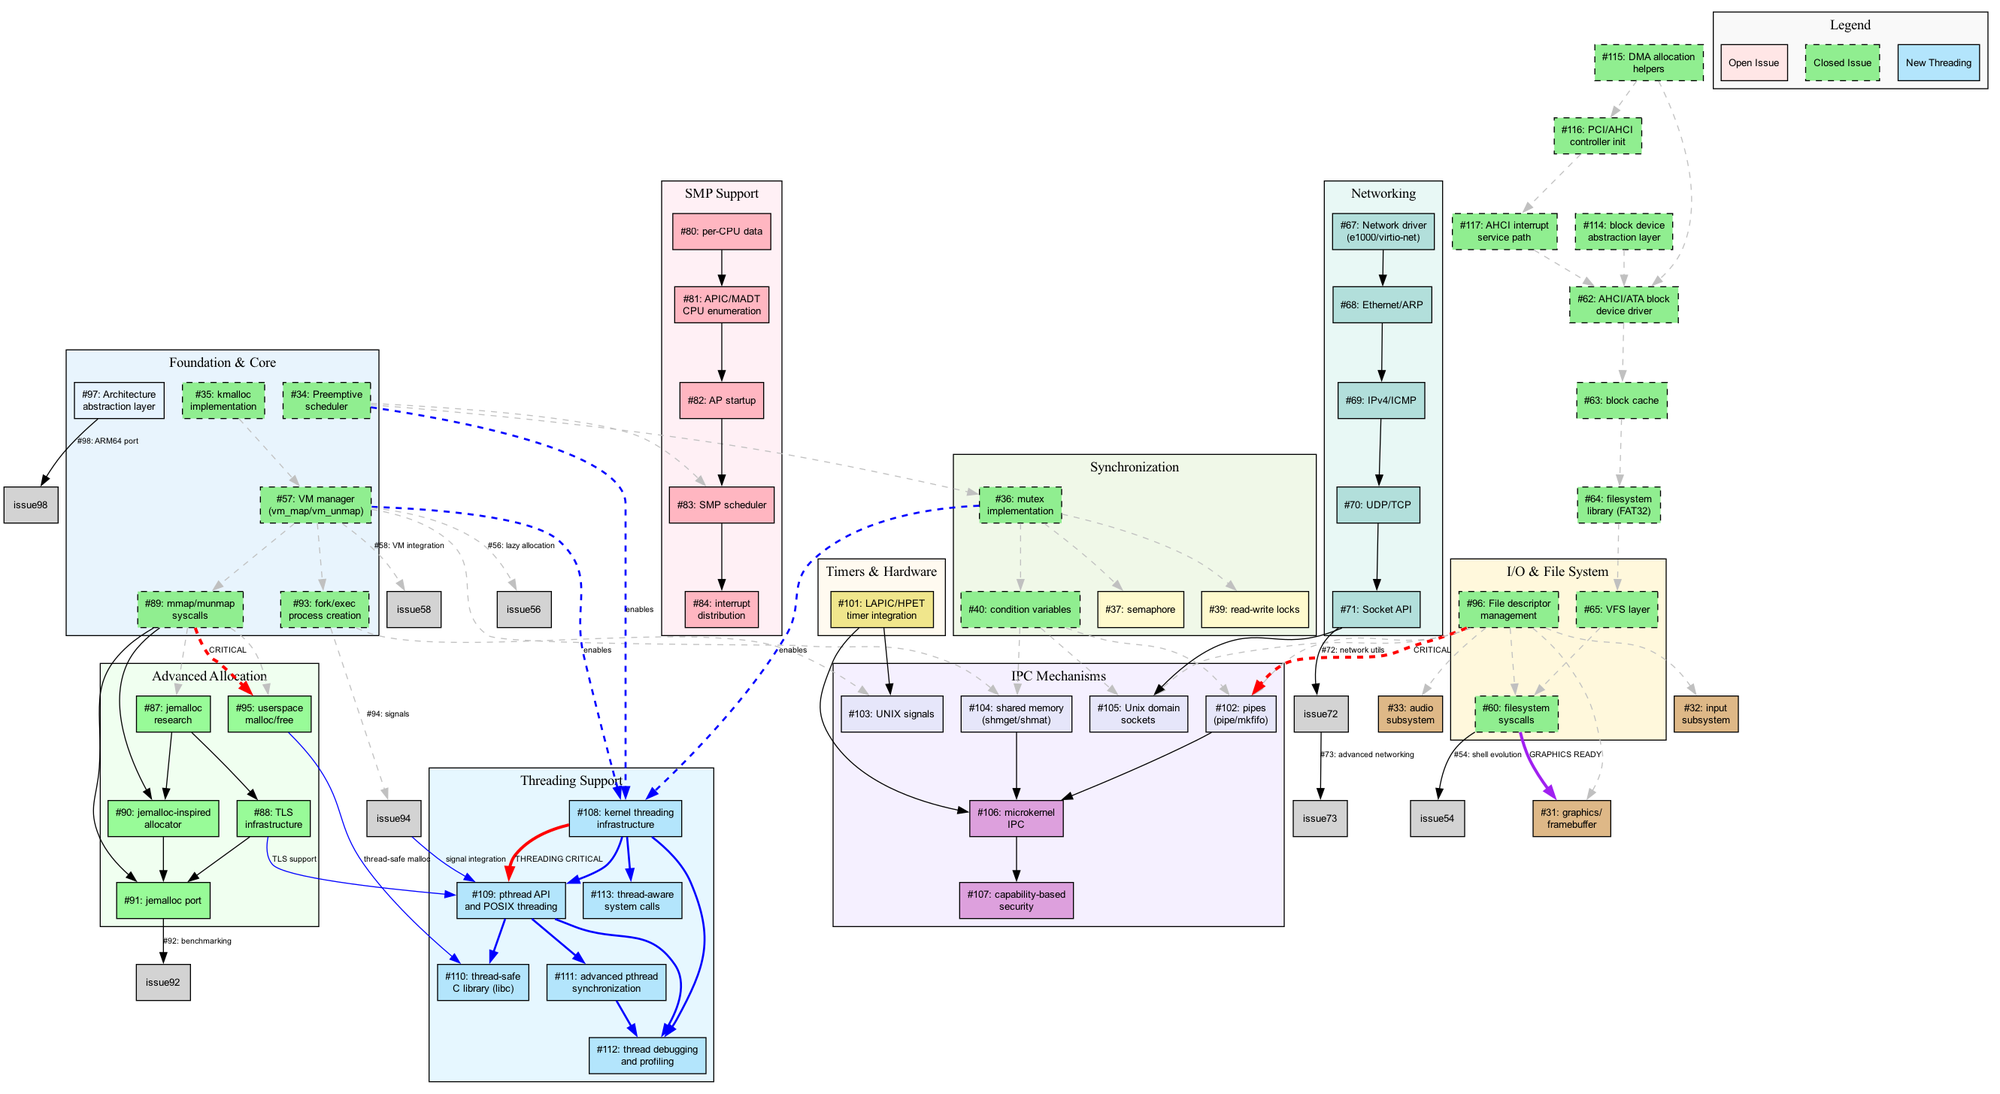
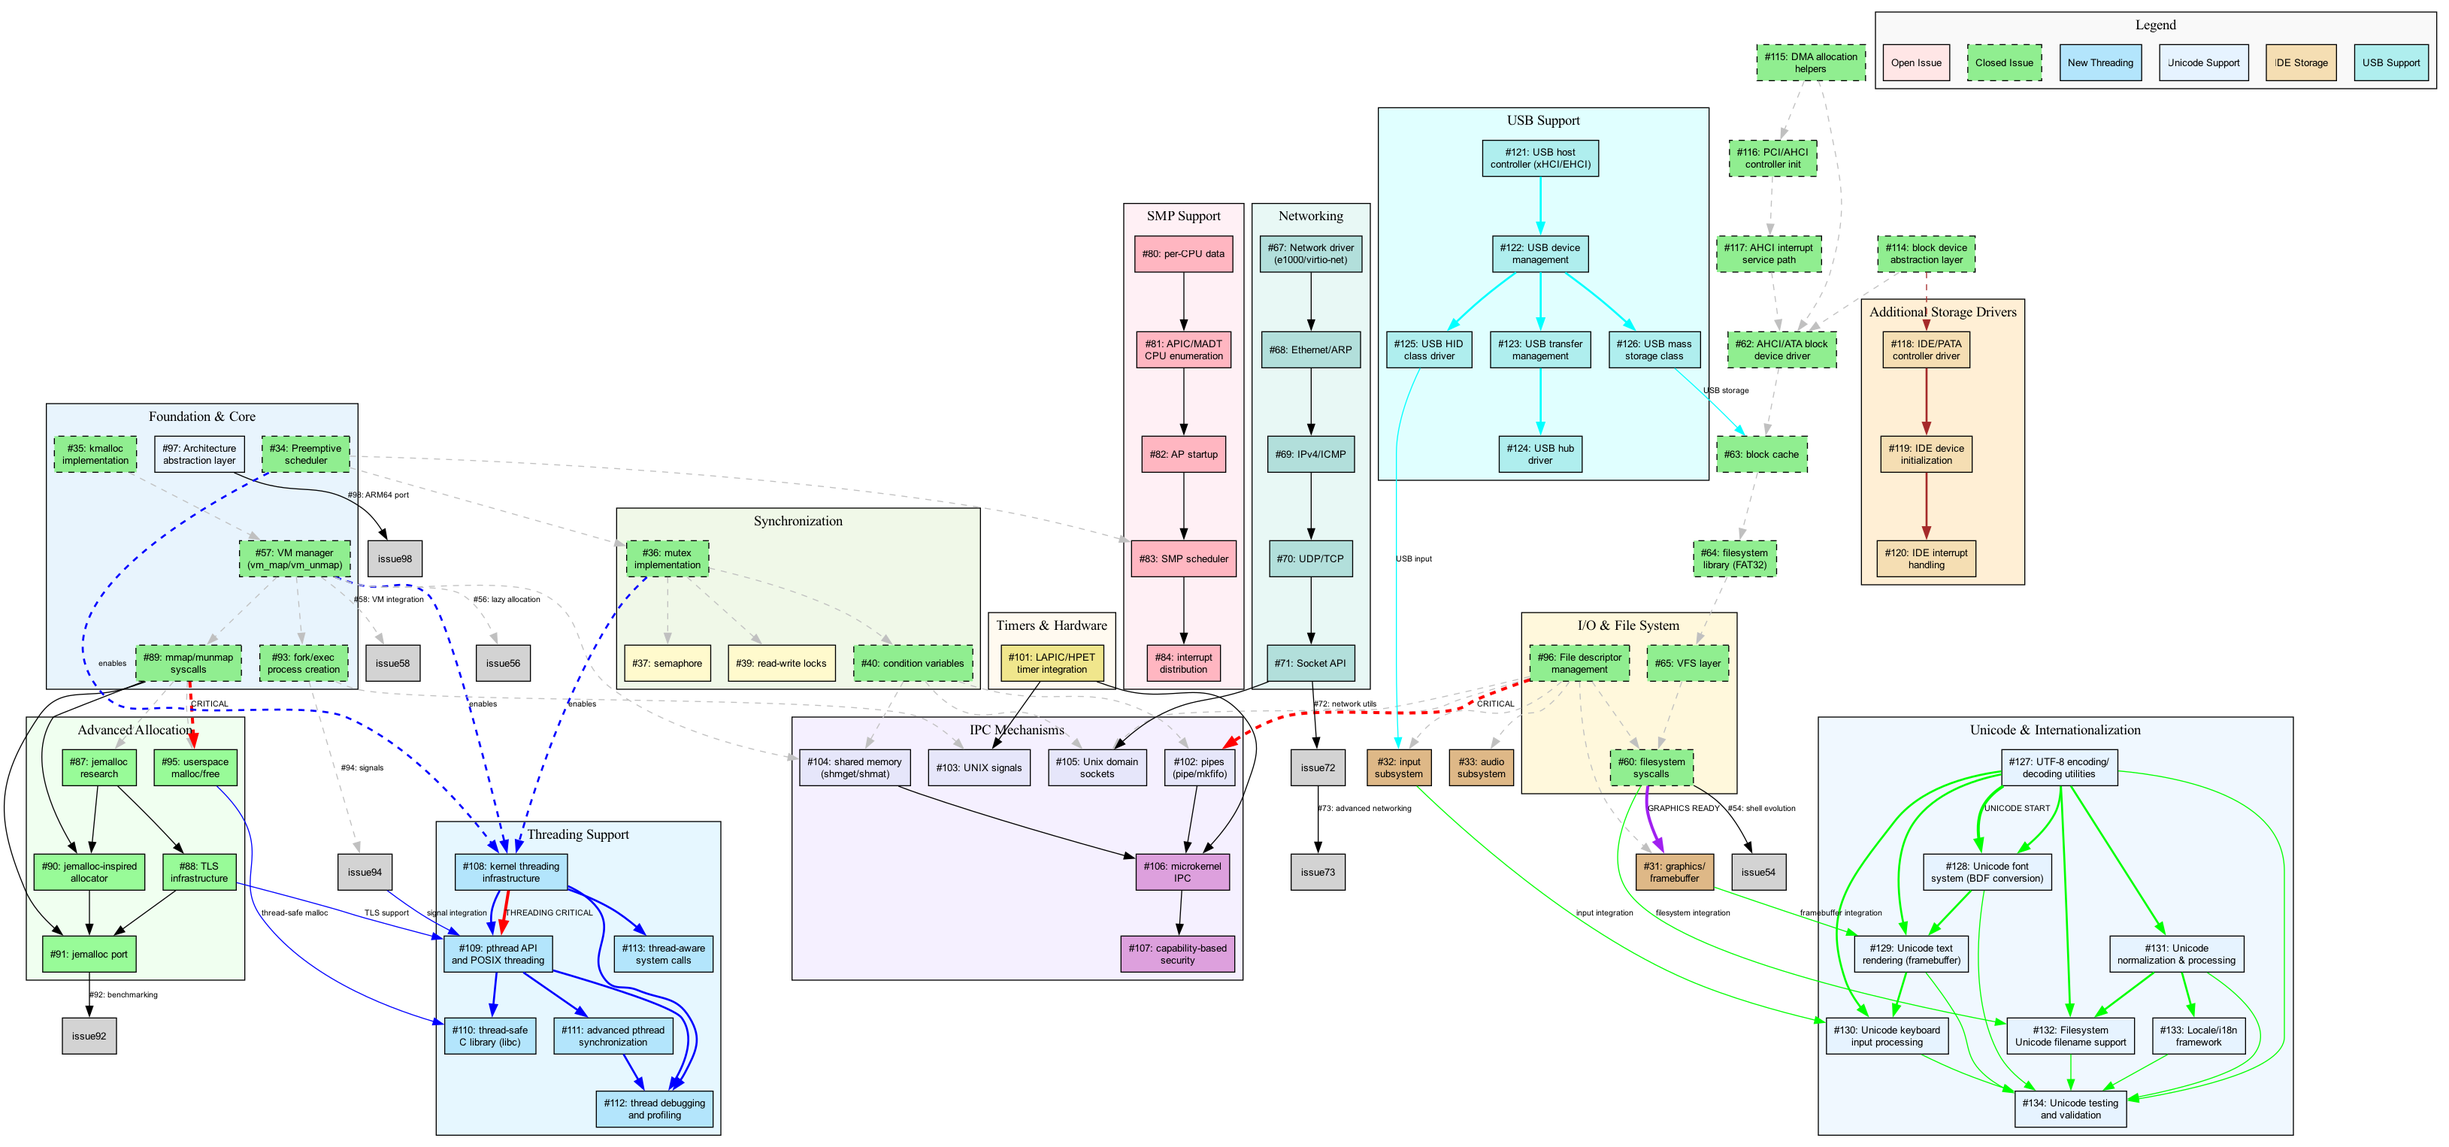
documentation: update issue dependency charts

diff --git a/README.md b/README.md
@@ -6,13 +6,13 @@
 
 <a rel="me" href="https://bolha.us/@p_balduino">Mastodon</a>
 
-A hobby operating system kernel written in C and Assembly, targeting x86-64 architecture. The ultimate goal is to run Doom in userland! 🎯
+A hobby operating system kernel written in C and Assembly, targeting x86-64 architecture. The ultimate goal is to run Doom in userland!
 
 ## Current Status
 
 MeniOS now boots via the Limine bootloader, initializes the x86-64 platform, and brings up a fully interactive kernel with userland processes:
 
-### ✅ **Completed Core Infrastructure**
+### Completed Core Infrastructure
 - **Memory & Protection**: Physical memory discovery, virtual memory manager, kernel heap, per-process page tables, copy-on-write fork, lazy stack growth, and `mmap`/`munmap` (Issues #34, #35, #57, #89, #93)
 - **Scheduling & Processes**: Preemptive kernel scheduler with kernel threads, sleep/yield, priority classes, fork/exec lifecycle, and Ring 3 entry trampoline (Issues #34, #93, #108)
 - **Syscalls & Descriptors**: INT 0x80 dispatcher covering `read`, `write`, `open`, `close`, `lseek`, `mmap`, `munmap`, `pipe`, `dup`, `dup2`, `fcntl`, `yield`, `sleep`, and `exit`; per-process descriptor tables with CLOEXEC, stdin ring buffer, and serial/framebuffer streams (Issues #60, #89, #96, #102)
@@ -20,20 +20,20 @@ MeniOS now boots via the Limine bootloader, initializes the x86-64 platform, and
 - **IPC & Device I/O**: Anonymous pipes, ANSI console with scrollback and color, PS/2 keyboard input routed into stdin, serial logging, framebuffer console, and synchronization primitives (Issues #36, #37, #39, #40, #102)
 - **Userland & Diagnostics**: ELF loader, multi-process user demo that exercises pipes and filesystem reads, SATA/FAT32 directory listing, Unity-based regression tests, page fault and GPF handlers for debugging
 
-### 🚧 **Next Major Milestones**
+### Next Major Milestones
 1. **pthread API & libc hardening** (Issues #109, #110) – expose kernel threads to user programs with a POSIX surface
 2. **Thread-aware syscalls & tooling** (Issues #112, #113) – scheduler introspection, thread IDs, and blocking semantics across the syscall suite
 3. **Signals & timers** (Issues #101, #103) – UNIX signal delivery, masking, and timer facilities for process control
 4. **Shared memory & IPC expansion** (Issues #104-#107) – shared regions, message queues, and futex-style primitives
 5. **Userspace device interfaces** (Issues #31-#33, #61) – framebuffer protocol, input event queues, audio streaming, and filesystem write support for Doom assets
 
-### 🧵 **Threading Roadmap**
-- ✅ **#108**: Kernel threading infrastructure (thread control blocks, scheduler integration, stack management)
-- 🚧 **#109**: pthread API and POSIX semantics for userland threading
-- ⏳ **#110**: Thread-safe libc (malloc/stdio/errno coordination)
-- ⏳ **#111**: Advanced pthread synchronization primitives (barriers, reader-writer locks, robust mutexes)
-- ⏳ **#112**: Thread debugging and profiling utilities
-- ⏳ **#113**: Thread-aware system calls and kernel integration
+### Threading Roadmap
+- **#108** (Done): Kernel threading infrastructure (thread control blocks, scheduler integration, stack management)
+- **#109** (In progress): pthread API and POSIX semantics for userland threading
+- **#110** (Planned): Thread-safe libc (malloc/stdio/errno coordination)
+- **#111** (Planned): Advanced pthread synchronization primitives (barriers, reader-writer locks, robust mutexes)
+- **#112** (Planned): Thread debugging and profiling utilities
+- **#113** (Planned): Thread-aware system calls and kernel integration
 
 ## Quick Start
 
@@ -72,14 +72,14 @@ On the kernel side, `user_demo_launch()` probes the SATA disk, dumps the first s
 
 ## Development Progress
 
-### ✅ **Major Milestones Completed**
+### Major Milestones Completed
 - **Kernel foundation**: Memory management, scheduler, synchronization primitives, and Limine v10 boot flow (Issues #34-#40, #57)
 - **Virtual memory & processes**: Copy-on-write fork/exec, per-process page tables, user-mode entry, and lazy stack paging (Issues #89, #93)
 - **Syscall & descriptor stack**: File descriptors, CLOEXEC handling, `open`/`read`/`write`/`lseek`, `mmap`/`munmap`, `pipe`, `dup`/`dup2`, `fcntl`, `sleep`, and `yield` (Issues #60, #89, #96, #102)
 - **Storage pipeline**: PCI/AHCI DMA driver, block cache, GPT scan, FAT32 filesystem driver, and VFS mount rooted at `/` (Issues #62-#65, #114-#115)
 - **Userland integration**: ELF loader, libc syscall shims, stdin ring buffer, Unity regression tests, and comprehensive serial diagnostics
 
-### 🚧 **Active Development & Near-Term Focus**
+### Active Development & Near-Term Focus
 - **Threading APIs**: pthread surface, thread-safe libc, and advanced synchronization (Issues #109-#111)
 - **Thread observability**: Thread-aware syscalls, debugging hooks, and scheduling metrics (Issues #112-#113)
 - **Signals & IPC**: Timers, UNIX signals, shared memory, pipes enhancements, and futex/message primitives (Issues #101-#107)
@@ -87,7 +87,7 @@ On the kernel side, `user_demo_launch()` probes the SATA disk, dumps the first s
 - **Toolchain & SDK**: Cross-compiler, crt0, libc packaging, and build tooling for user apps (Issue #29)
 - **Networking stack**: TCP/IP layers, sockets, and driver support (Issues #67-#73)
 
-### Road to Doom 🎮
+### Road to Doom
 
 The core kernel and storage stack are online; Doom's remaining blockers are in userland infrastructure:
 - Multi-threaded runtime: pthread API, thread-safe libc, and signal handling
@@ -104,40 +104,42 @@ See [`road_to_doom.md`](road_to_doom.md) and [`tasks.json`](tasks.json) for the 
 ┌─────────────────────────────────────────────────────────────┐
 │                    USERLAND (In Development)                │
 │  ┌─────────┐  ┌─────────┐  ┌─────────┐  ┌─────────────────┐ │
-│  │  Doom   │  │ Shell   │  │ Games   │  │  Applications   │ │
+│  │  Doom   │  │  Shell  │  │  Games  │  │  Applications   │ │
 │  └─────────┘  └─────────┘  └─────────┘  └─────────────────┘ │
-│                              │                             │
-│                        ┌─────────┐                        │
-│                        │  libc   │  (Threading Support)   │
-│                        └─────────┘                        │
+│                              │                              │
+│                        ┌─────────┐                          │
+│                        │  libc   │  (Threading Support)     │
+│                        └─────────┘                          │
 └─────────────────────────────┬───────────────────────────────┘
-                              │ Syscall Interface ✅
+                              │ Syscall Interface [OK]        │
 ┌─────────────────────────────┴───────────────────────────────┐
-│                      KERNEL SPACE ✅                       │
-│  ┌─────────────────┐  ┌─────────────────┐  ┌──────────────┐ │
-│  │ Process Mgmt ✅ │  │ Memory Mgmt ✅  │  │ I/O Subsys   │ │
-│  │ • Scheduler ✅  │  │ • Virtual Mem ✅│  │ • Console ✅ │ │
-│  │ • Kernel Threads│  │ • Physical Mem ✅│  │ • PS/2 Input │ │
-│  │ • Sync Prims ✅ │  │ • Page Tables ✅│  │ • Framebuffer│ │
+│                      KERNEL SPACE [OK]                      │
+│  ┌─────────────────┐  ┌─────┴───────────┐  ┌──────────────┐ │
+│  │ Process Mgmt    │  │ Memory Mgmt     │  │ I/O Subsys   │ │
+│  │ Status: [OK]    │  │ Status: [OK]    │  │ Status: [OK] │ │
+│  │ • Scheduler     │  │ • Virtual Mem   │  │ • Console    │ │
+│  │ • Threads       │  │ • Physical Mem  │  │ • PS/2 Input │ │
+│  │ • Sync Prims    │  │ • Page Tables   │  │ • Framebuffer│ │
 │  └─────────────────┘  └─────────────────┘  └──────────────┘ │
-│                              │                             │
+│                              │                              │
 │  ┌─────────────────┐  ┌─────────────────┐  ┌──────────────┐ │
 │  │ Debug/Diag      │  │ File System     │  │ Hardware     │ │
-│  │ • Page Faults ✅│  │ • VFS ✅        │  │ • Interrupts │ │
-│  │ • GPF Handler ✅│  │ • Block Drivers ✅│ │ • Timers     │ │
-│  │ • Unit Tests ✅ │  │ • File I/O (RO) │  │ • Hardware   │ │
+│  │ Status: [OK]    │  │ Status: [OK]    │  │ Status: [WIP]│ │
+│  │ • Page Faults   │  │ • VFS           │  │ • Interrupts │ │
+│  │ • GPF Handler   │  │ • Block Drivers │  │ • Timers     │ │
+│  │ • Unit Tests    │  │ • File I/O (RO) │  │ • Devices    │ │
 │  └─────────────────┘  └─────────────────┘  └──────────────┘ │
 │                                                             │
-│  ┌─────────────────────────────────────────────────────────┐ │
-│  │            Threading Roadmap                           │ │
-│  │  • Kernel threading infrastructure ✅ (#108)           │ │
-│  │  • pthread API / thread-safe libc 🚧 (#109/#110)       │ │
-│  │  • Advanced sync & tooling 🚧 (#111-#113)              │ │
-│  └─────────────────────────────────────────────────────────┘ │
+│  ┌────────────────────────────────────────────────────────┐ │
+│  │                   Threading Roadmap                    │ │
+│  │  • Kernel threading infrastructure [OK]                │ │
+│  │  • pthread API and thread-safe libc [WIP]              │ │
+│  │  • Advanced sync and tooling [WIP]                     │ │
+│  └────────────────────────────────────────────────────────┘ │
 └─────────────────────────────┬───────────────────────────────┘
-                              │ Hardware Abstraction
+                              │ Hardware Abstraction [WIP]    │
 ┌─────────────────────────────┴───────────────────────────────┐
-│                         HARDWARE                           │
+│                         HARDWARE                            │
 │    CPU    │    RAM    │   Storage   │  Graphics  │  Input   │
 │   x86-64  │   4GB+    │    Disk     │    VGA     │   PS/2   │
 └─────────────────────────────────────────────────────────────┘
@@ -179,7 +181,7 @@ See [`road_to_doom.md`](road_to_doom.md) and [`tasks.json`](tasks.json) for the 
 
 ## Contributing
 
-We welcome contributions from developers of all skill levels! 🚀
+We welcome contributions from developers of all skill levels!
 
 - **New Contributors**: Start with our [Contributing Guide](CONTRIBUTING.md) for a complete development workflow
 - **Find Tasks**: Check [GitHub Issues](https://github.com/pbalduino/menios/issues) or browse [`tasks.json`](tasks.json) for detailed task tracking

diff --git a/ISSUE_DEPENDENCY_ANALYSIS.md b/ISSUE_DEPENDENCY_ANALYSIS.md
@@ -32,6 +32,16 @@ These issues form the backbone of the system and should be prioritized:
 17. **#112** - Thread debugging and profiling support
 18. **#113** - Thread-aware system calls and kernel integration
 
+### 🆕 Tier 5: Unicode & Internationalization (NEW!)
+19. **#127** - UTF-8 encoding/decoding utilities (foundation)
+20. **#128** - Unicode font system (BDF conversion)
+21. **#129** - Unicode text rendering in framebuffer
+22. **#130** - Unicode keyboard input processing
+23. **#131** - Unicode normalization and text processing
+24. **#132** - Filesystem Unicode filename support
+25. **#133** - Locale/i18n framework
+26. **#134** - Unicode testing and validation
+
 ## 📊 Updated Dependency Categories
 
 ### Memory Management Chain ✅ (Foundation Complete!)
@@ -79,6 +89,33 @@ These issues form the backbone of the system and should be prioritized:
 #67 (network driver) → #68 (Ethernet/ARP) → #69 (IPv4/ICMP) → #70 (UDP/TCP) → #71 (socket API)
                                                                                       ↓
                                                                               #105 (Unix sockets)
+```
+
+### 🆕 Unicode Support Chain (NEW!)
+```
+Phase 1: Foundation
+#127 (UTF-8 utilities) → #128 (Unicode fonts) → #129 (text rendering)
+                      ↓                              ↓
+Phase 2: Enhanced    #131 (normalization)    #130 (keyboard input)
+                           ↓                        ↓
+Phase 3: System      #132 (filesystem) → #133 (locale/i18n)
+                           ↓                        ↓
+Phase 4: Testing     #134 (comprehensive testing) ←──────────┘
+```
+
+### Hardware Driver Expansion
+```
+IDE Storage:
+#114 (block abstraction) → #118 (IDE/PATA) → #119 (IDE init) → #120 (IDE interrupts)
+
+USB Support:
+#121 (USB host controller) → #122 (USB device mgmt) → #123 (USB transfers)
+                                    ↓                       ↓
+                              #125 (USB HID)           #124 (USB hub)
+                                    ↓                       ↓
+                              #32 (input)            #126 (USB storage)
+                                                           ↓
+                                                    #63 (block cache)
 ```
 
 ### Filesystem Stack
@@ -153,6 +190,7 @@ These issues form the backbone of the system and should be prioritized:
 - **#96 (file descriptors)** ✅ - No blocking dependencies
 - **#93 (fork/exec)** ✅ - Dependencies: #57 (CLOSED), #96 (ready)
 - **#108 (kernel threading)** ✅ - Dependencies: #34 (CLOSED), #36 (CLOSED), #57 (CLOSED)
+- **#127 (UTF-8 utilities)** ✅ - No dependencies, ready to start immediately!
 
 ### Cannot Start Until Complete:
 - **#109 (pthread API)** blocks on: #108 (kernel threading)
@@ -163,9 +201,11 @@ These issues form the backbone of the system and should be prioritized:
 
 ### Parallel Development Opportunities:
 - **Threading** (#108-#113) can develop after Phase 2
+- **Unicode Support** (#127-#134) can develop independently - start with #127!
 - **Networking stack** (#67-#73) can develop independently after basic kernel
 - **SMP support** (#80-#84) can develop in parallel with IPC
 - **Filesystem** (#62-#65) can develop independently
+- **Hardware drivers** (#118-#126) can develop in parallel
 - **jemalloc research** (#87-#92) can happen in parallel
 
 ## 🎯 Recommended Focus Areas
@@ -174,6 +214,7 @@ These issues form the backbone of the system and should be prioritized:
 1. **#89** - mmap/munmap syscalls (ready to implement)
 2. **#96** - File descriptor management (ready to implement)
 3. **#108** - Kernel threading infrastructure (ready to implement)
+4. **#127** - UTF-8 utilities (ready to implement, no dependencies!)
 
 ### For Maximum Impact:
 1. **Complete Phase 2** (#89, #96, #93, #101, #102) - Essential for applications
@@ -187,6 +228,11 @@ These issues form the backbone of the system and should be prioritized:
 4. **Threading**: #108 → #109 (for advanced editors)
 5. **Terminal**: Terminal subsystem (new issue needed)
 
+### For Unicode & International Support:
+1. **Phase 1**: #127 (UTF-8 utilities) → #128 (fonts) → #129 (rendering)
+2. **Phase 2**: #130 (keyboard input) + #131 (normalization)
+3. **Phase 3**: #132 (filesystem) → #133 (locale/i18n) → #134 (testing)
+
 ### For Microkernel Vision:
 1. **Complete Phases 1-3** first (foundation + threading)
 2. **Transition**: #106 → #107 (microkernel IPC + security)
@@ -199,14 +245,17 @@ These issues form the backbone of the system and should be prioritized:
 - Core scheduling (#34)
 - Basic synchronization (#36, #40)
 
-### 🔥 **Ready to Implement (3 issues)**:
+### 🔥 **Ready to Implement (4 issues)**:
 - #89 (mmap/munmap)
 - #96 (file descriptors)
 - #108 (kernel threading)
+- #127 (UTF-8 utilities)
 
-### 📋 **Total Remaining**: ~64 open issues
+### 📋 **Total Remaining**: ~78 open issues
 
 ### 🎯 **Threading Support**: 6 new issues created (#108-#113)
+
+### 🆕 **Unicode Support**: 8 new issues created (#127-#134)
 
 ## 💡 **Updated Strategy**
 
@@ -216,6 +265,7 @@ With the strong foundation now in place, meniOS is well-positioned for rapid dev
 1. **Track A**: File I/O and processes (#96, #89, #93)
 2. **Track B**: Threading infrastructure (#108, #109, #113)
 3. **Track C**: Advanced features (#101, #102, #103)
+4. **Track D**: Unicode support (#127, #128, #129, #130)
 
 This parallel approach could significantly accelerate development and enable running sophisticated applications sooner than the original sequential timeline suggested.
 
